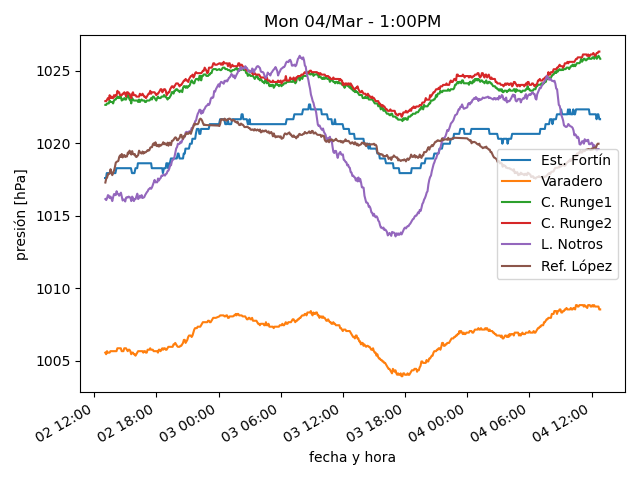
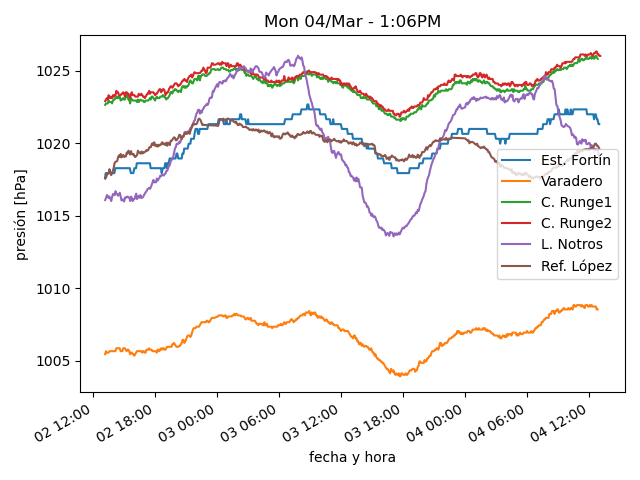
actualiza datos

diff --git a/estaciones/estacion4.html b/estaciones/estacion4.html
@@ -18,32 +18,32 @@
     </tr>
     <tr>
      <td class="stats_data">
-      12:44PM
+      1:04PM
      </td>
     </tr>
     <tr>
      <td class="stats_data">
-      18.8
+      19.7
      </td>
     </tr>
     <tr>
      <td class="stats_data">
-      2.6
+      3.1
      </td>
     </tr>
     <tr>
      <td class="stats_data">
-      34.0
+      33.2
      </td>
     </tr>
     <tr>
      <td class="stats_data">
-      1023.33
+      1023.03
      </td>
     </tr>
     <tr>
      <td class="stats_data">
-      4.3/6.3 E
+      2.7/3.7 SSW
      </td>
     </tr>
     <tr>
@@ -53,12 +53,12 @@
     </tr>
     <tr>
      <td class="stats_data">
-      6.0
+      7.0
      </td>
     </tr>
     <tr>
      <td class="stats_data">
-      712.8
+      726.9
      </td>
     </tr>
    </tbody>

diff --git a/estaciones/estacion1.html b/estaciones/estacion1.html
@@ -18,12 +18,12 @@
     </tr>
     <tr>
      <td class="stats_data">
-      12:48PM
+      12:58PM
      </td>
     </tr>
     <tr>
      <td class="stats_data">
-      19.4
+      19.8
      </td>
     </tr>
     <tr>
@@ -33,17 +33,17 @@
     </tr>
     <tr>
      <td class="stats_data">
-      35.0
+      34.0
      </td>
     </tr>
     <tr>
      <td class="stats_data">
-      1021.67
+      1021.33
      </td>
     </tr>
     <tr>
      <td class="stats_data">
-      6.4/13.7 S
+      11.3/13.7 E
      </td>
     </tr>
     <tr>
@@ -53,12 +53,12 @@
     </tr>
     <tr>
      <td class="stats_data">
-      5.8
+      5.9
      </td>
     </tr>
     <tr>
      <td class="stats_data">
-      812.0
+      824.0
      </td>
     </tr>
    </tbody>

diff --git a/estaciones/estacion6.html b/estaciones/estacion6.html
@@ -18,32 +18,32 @@
     </tr>
     <tr>
      <td class="stats_data">
-      12:40PM
+      1:00PM
      </td>
     </tr>
     <tr>
      <td class="stats_data">
-      10.7
+      11.4
      </td>
     </tr>
     <tr>
      <td class="stats_data">
-      2.2
+      2.7
      </td>
     </tr>
     <tr>
      <td class="stats_data">
-      56.0
+      55.0
      </td>
     </tr>
     <tr>
      <td class="stats_data">
-      1021.37
+      1021.0
      </td>
     </tr>
     <tr>
      <td class="stats_data">
-      14.5/32.2 NE
+      17.7/25.7 NE
      </td>
     </tr>
     <tr>
@@ -58,7 +58,7 @@
     </tr>
     <tr>
      <td class="stats_data">
-      902.0
+      901.0
      </td>
     </tr>
    </tbody>

diff --git a/estaciones/estacion5.html b/estaciones/estacion5.html
@@ -18,27 +18,27 @@
     </tr>
     <tr>
      <td class="stats_data">
-      12:40PM
+      1:00PM
      </td>
     </tr>
     <tr>
      <td class="stats_data">
-      18.7
+      19.6
      </td>
     </tr>
     <tr>
      <td class="stats_data">
-      5.6
+      6.0
      </td>
     </tr>
     <tr>
      <td class="stats_data">
-      42.0
+      41.0
      </td>
     </tr>
     <tr>
      <td class="stats_data">
-      1022.18
+      1021.57
      </td>
     </tr>
     <tr>
